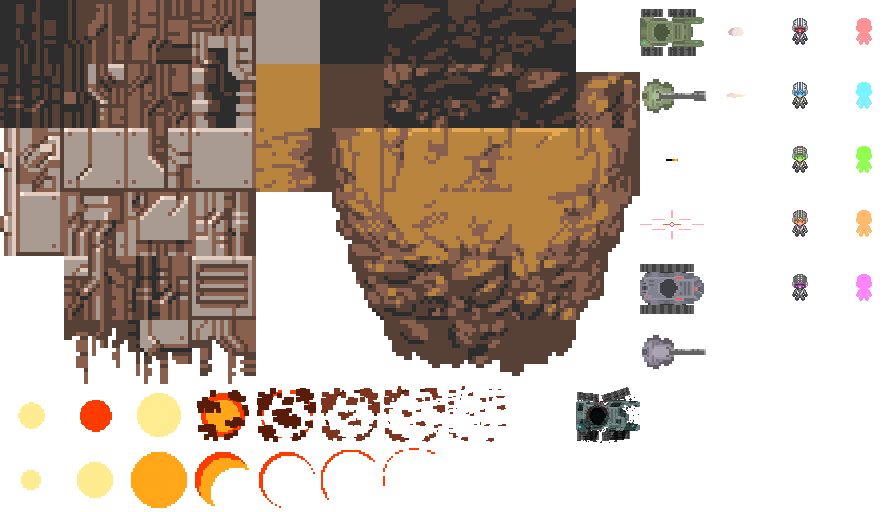
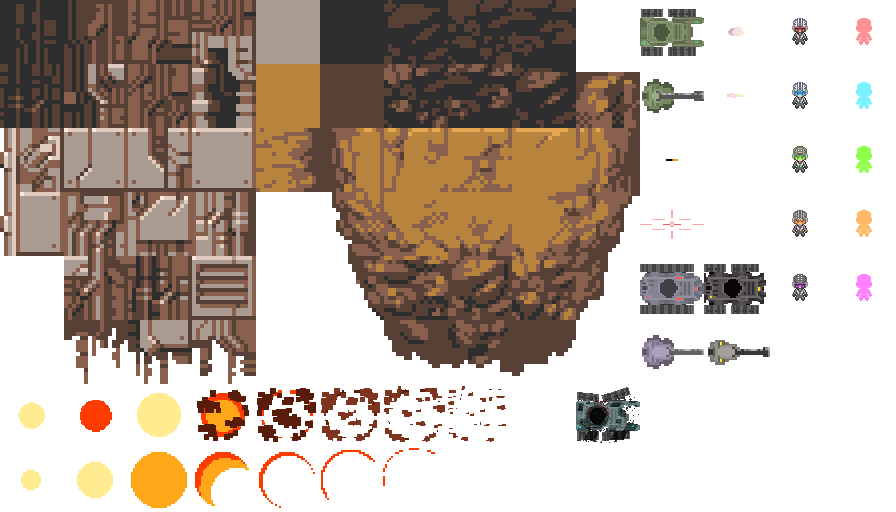
Added tank crewman and tank wreck locations, updated crew movements.

Changed region(s): [[0.7812, 0.5, 0.875, 0.625], [0.7812, 0.6562, 0.875, 0.7188]]

diff --git a/TileBasedPlayer20172018/GameRoot.cs b/TileBasedPlayer20172018/GameRoot.cs
@@ -128,16 +128,16 @@ namespace TileBasedPlayer20172018
         protected override void Initialize()
         {
             Window.Position = new Point(
-                (GraphicsAdapter.DefaultAdapter.CurrentDisplayMode.Width / 2) - 
-                (graphics.PreferredBackBufferWidth / 2), 
-                (GraphicsAdapter.DefaultAdapter.CurrentDisplayMode.Height / 2) - 
+                (GraphicsAdapter.DefaultAdapter.CurrentDisplayMode.Width / 2) -
+                (graphics.PreferredBackBufferWidth / 2),
+                (GraphicsAdapter.DefaultAdapter.CurrentDisplayMode.Height / 2) -
                 (graphics.PreferredBackBufferHeight / 2));
 
             new InputEngine(this);
 
             // Add Camera
             CurrentCamera = new Camera(this, Vector2.Zero,
-                new Vector2((tileMap.GetLength(1) * tileWidth), 
+                new Vector2((tileMap.GetLength(1) * tileWidth),
                             (tileMap.GetLength(0) * tileHeight)));
             Services.AddService(CurrentCamera);
 
@@ -185,15 +185,29 @@ namespace TileBasedPlayer20172018
             const float ANGLE_DIAG_RIGHT = 0.75f; // Minus for top right
 
             #region Create Sentry Tanks
-            Sentry enemyOne = new Sentry(this, new Vector2(958, 197), new List<TileRef>()
+            Vector2[] SentryPositions = new Vector2[]
             {
-                new TileRef(10, 4, 0),
+                new Vector2(958, 197),
+                new Vector2(200, 768),
+                new Vector2(350, 1287),
+                new Vector2(2304, 1820),
+                new Vector2(3590, 1794),
+                new Vector2(3555, 866),
+                new Vector2(2580, 180),
+                new Vector2(3562, 184),
+                new Vector2(2129, 474),
+                new Vector2(1374, 251),
+            };
+
+            Sentry enemyOne = new Sentry(this, SentryPositions[0], new List<TileRef>()
+            {
+                new TileRef(11, 4, 0),
             }, 64, 64, 0f, "Enemy Tank 1",
             Content.Load<SoundEffect>("audio/SentryTankHum"),
             Content.Load<SoundEffect>("audio/SentryTankTracks"),
             -ANGLE_RIGHT);
 
-            Sentry enemyTwo = new Sentry(this, new Vector2(200, 768), new List<TileRef>()
+            Sentry enemyTwo = new Sentry(this, SentryPositions[1], new List<TileRef>()
             {
                 new TileRef(10, 4, 0),
             }, 64, 64, 0f, "Enemy Tank 2",
@@ -201,7 +215,7 @@ namespace TileBasedPlayer20172018
             Content.Load<SoundEffect>("audio/SentryTankTracks"),
             0);
 
-            Sentry enemyThree = new Sentry(this, new Vector2(350, 1287), new List<TileRef>()
+            Sentry enemyThree = new Sentry(this, SentryPositions[2], new List<TileRef>()
             {
                 new TileRef(10, 4, 0),
             }, 64, 64, 0f, "Enemy Tank 3",
@@ -209,7 +223,7 @@ namespace TileBasedPlayer20172018
             Content.Load<SoundEffect>("audio/SentryTankTracks"),
             ANGLE_DIAG_RIGHT);
 
-            Sentry enemyFour = new Sentry(this, new Vector2(2304, 1820), new List<TileRef>()
+            Sentry enemyFour = new Sentry(this, SentryPositions[3], new List<TileRef>()
             {
                 new TileRef(10, 4, 0),
             }, 64, 64, 0f, "Enemy Tank 4",
@@ -217,7 +231,7 @@ namespace TileBasedPlayer20172018
             Content.Load<SoundEffect>("audio/SentryTankTracks"),
             -ANGLE_RIGHT);
 
-            Sentry enemyFive = new Sentry(this, new Vector2(3590, 1794), new List<TileRef>()
+            Sentry enemyFive = new Sentry(this, SentryPositions[4], new List<TileRef>()
             {
                 new TileRef(10, 4, 0),
             }, 64, 64, 0f, "Enemy Tank 5",
@@ -225,7 +239,7 @@ namespace TileBasedPlayer20172018
             Content.Load<SoundEffect>("audio/SentryTankTracks"),
             -ANGLE_RIGHT);
 
-            Sentry enemySix = new Sentry(this, new Vector2(3555, 866), new List<TileRef>()
+            Sentry enemySix = new Sentry(this, SentryPositions[5], new List<TileRef>()
             {
                 new TileRef(10, 4, 0),
             }, 64, 64, 0f, "Enemy Tank 6",
@@ -233,7 +247,7 @@ namespace TileBasedPlayer20172018
             Content.Load<SoundEffect>("audio/SentryTankTracks"),
             ANGLE_DOWN);
 
-            Sentry enemySeven = new Sentry(this, new Vector2(2580, 180), new List<TileRef>()
+            Sentry enemySeven = new Sentry(this, SentryPositions[6], new List<TileRef>()
             {
                 new TileRef(10, 4, 0),
             }, 64, 64, 0f, "Enemy Tank 7",
@@ -241,7 +255,7 @@ namespace TileBasedPlayer20172018
             Content.Load<SoundEffect>("audio/SentryTankTracks"),
             0);
 
-            Sentry enemyEight = new Sentry(this, new Vector2(3562, 184), new List<TileRef>()
+            Sentry enemyEight = new Sentry(this, SentryPositions[7], new List<TileRef>()
             {
                 new TileRef(10, 4, 0),
             }, 64, 64, 0f, "Enemy Tank 8",
@@ -249,7 +263,7 @@ namespace TileBasedPlayer20172018
             Content.Load<SoundEffect>("audio/SentryTankTracks"),
             -ANGLE_RIGHT);
 
-            Sentry enemyNine = new Sentry(this, new Vector2(2129, 474), new List<TileRef>()
+            Sentry enemyNine = new Sentry(this, SentryPositions[8], new List<TileRef>()
             {
                 new TileRef(10, 4, 0),
             }, 64, 64, 0f, "Enemy Tank 9",
@@ -257,7 +271,7 @@ namespace TileBasedPlayer20172018
             Content.Load<SoundEffect>("audio/SentryTankTracks"),
             -ANGLE_RIGHT);
 
-            Sentry enemyTen = new Sentry(this, new Vector2(1374, 251), new List<TileRef>()
+            Sentry enemyTen = new Sentry(this, SentryPositions[9], new List<TileRef>()
             {
                 new TileRef(10, 4, 0),
             }, 64, 64, 0f, "Enemy Tank 10",
@@ -310,7 +324,7 @@ namespace TileBasedPlayer20172018
 
             SentryTurret enemyTurretOne = new SentryTurret(this, enemyOne.PixelPosition, new List<TileRef>()
             {
-                new TileRef(10, 5, 0),
+                new TileRef(11, 5, 0),
             }, 64, 64, 0f, "Enemy Tank 1", -ANGLE_RIGHT, Content.Load<SoundEffect>("audio/SentryTurretTurn"),
             Content.Load<SoundEffect>("audio/TankExplosion"));
 
@@ -533,38 +547,65 @@ namespace TileBasedPlayer20172018
             Services.AddService(sentryProjectiles);
             #endregion
 
-            #region Add PowerUps
+            #region Add Tank Crew
+            Vector2[] CrewmanPositions = new Vector2[]
+            {
+                new Vector2(165, 1827),
+                new Vector2(194, 863),
+                new Vector2(2707, 1758),
+                new Vector2(3612, 244),
+                new Vector2(1306, 152)
+            };
+
+            #region Tank Wreck Sprites
+            TankWreckSprite[] WreckSprites = new TankWreckSprite[CrewmanPositions.Length];
+            for (int i = 0; i < CrewmanPositions.Length; i++)
+            {
+                WreckSprites[i] = new TankWreckSprite(this, CrewmanPositions[i] + new Vector2(10, 6),
+                new List<TileRef>()
+                {
+                    new TileRef(9,6,0)
+                }, 64, 64, 0f);
+            }
+
+            WreckSprites[0].angleOfRotation = -ANGLE_DIAG_RIGHT;
+            WreckSprites[1].angleOfRotation = -ANGLE_DIAG_RIGHT;
+            WreckSprites[2].angleOfRotation = ANGLE_RIGHT;
+            WreckSprites[3].angleOfRotation = ANGLE_RIGHT;
+            WreckSprites[4].angleOfRotation = ANGLE_DIAG_RIGHT;
+            #endregion
+
             //PowerUp Heal = new PowerUp(this, new Vector2(500, 192), new List<TileRef>()
             //{
             //    new TileRef(12,2,0),
             //}, 64, 64, 0f, 1, PowerUp.PowerUpType.Heal, 50, 1,
             //Content.Load<SoundEffect>(@"audio/Rescue3"));
 
-            PowerUp Speed = new PowerUp(this, new Vector2(500, 192), new List<TileRef>()
+            PowerUp Speed = new PowerUp(this, CrewmanPositions[0], new List<TileRef>()
             {
                 new TileRef(12,3,0)               
-            }, 64, 64, 0f, 5, PowerUp.PowerUpType.SpeedBoost, 0, 1.2f,
+            }, 64, 64, 0f, 5, PowerUp.PowerUpType.SpeedBoost, 0, 1.1f,
             Content.Load<SoundEffect>(@"audio/Rescue1"));
 
-            PowerUp Regen = new PowerUp(this, new Vector2(600, 192), new List<TileRef>()
+            PowerUp Regen = new PowerUp(this, CrewmanPositions[1], new List<TileRef>()
             {
                 new TileRef(12,2,0),
             }, 64, 64, 0f, 1, PowerUp.PowerUpType.Regen, 1, 1,
             Content.Load<SoundEffect>(@"audio/Rescue2"));
 
-            PowerUp DefenseBoost = new PowerUp(this, new Vector2(700, 192), new List<TileRef>()
+            PowerUp DefenseBoost = new PowerUp(this, CrewmanPositions[2], new List<TileRef>()
             {
                 new TileRef(12,1,0),
             }, 64, 64, 0f, 60, PowerUp.PowerUpType.DefenseBoost, 0, 2,
             Content.Load<SoundEffect>(@"audio/Rescue3"));
 
-            PowerUp ExtraDamage = new PowerUp(this, new Vector2(800, 192), new List<TileRef>()
+            PowerUp ExtraDamage = new PowerUp(this, CrewmanPositions[3], new List<TileRef>()
             {
                 new TileRef(12,0,0),
             }, 64, 64, 0f, 60, PowerUp.PowerUpType.ExtraDamage, 0, 2,
             Content.Load<SoundEffect>(@"audio/Rescue4"));
 
-            PowerUp Camouflage = new PowerUp(this, new Vector2(900, 192), new List<TileRef>()
+            PowerUp Camouflage = new PowerUp(this, CrewmanPositions[4], new List<TileRef>()
             {
                 new TileRef(12,4,0),
             }, 64, 64, 0f, 5, PowerUp.PowerUpType.Camouflage, 0, 0,

diff --git a/TileBasedPlayer20172018/Items/Power-Ups/PowerUp.cs b/TileBasedPlayer20172018/Items/Power-Ups/PowerUp.cs
@@ -73,6 +73,9 @@ namespace PowerUps
         public float MaxLifeTime;
         public float RegenTimer;
         private bool attachToHUD = false;
+        private float distance;
+        private const int RUN_RADIUS = 100;
+        private const float RUN_SPEED = 0.01f;
 
         private SoundEffect pickupSnd;
         private SoundEffectInstance pickupSndInst;
@@ -100,6 +103,9 @@ namespace PowerUps
             this.Factor = multiplier;
             this.Amount = amount;
             this.State = PowerUpStatus.Deactivated;
+            BoundingRectangle = new Rectangle(
+                PixelPosition.ToPoint(), 
+                new Point(FrameWidth / 8, FrameHeight / 8));
 
             #region Get Default Values
             TilePlayer player = (TilePlayer)Game.Services.GetService(typeof(TilePlayer));
@@ -295,6 +301,14 @@ namespace PowerUps
                             Deactivate(player, playerTurret, sentryTurrets);
                         }
                     }
+
+                    distance = Math.Abs(Vector2.Distance(this.CentrePos, player.CentrePos));
+
+                    if (distance <= RUN_RADIUS)
+                        PixelPosition = Vector2.Lerp(
+                            this.PixelPosition, 
+                            player.PixelPosition, 
+                            RUN_SPEED);
                 }
 
                 if (attachToHUD)

diff --git a/TileBasedPlayer20172018/Sprites/TankWreckSprite.cs b/TileBasedPlayer20172018/Sprites/TankWreckSprite.cs
@@ -1,0 +1,25 @@
+using System;
+using System.Collections.Generic;
+using System.Linq;
+using System.Text;
+using System.Threading.Tasks;
+using Microsoft.Xna.Framework;
+using Tiling;
+
+namespace AnimatedSprite
+{
+    class TankWreckSprite : RotatingSprite
+    {
+        public TankWreckSprite(Game game, Vector2 userPosition, List<TileRef> sheetRefs, 
+            int frameWidth, int frameHeight, float layerDepth) 
+            : base(game, userPosition, sheetRefs, frameWidth, frameHeight, layerDepth)
+        {
+            DrawOrder = 29;
+        }
+
+        public override void Draw(GameTime gameTime)
+        {
+            base.Draw(gameTime);
+        }
+    }
+}

diff --git a/TileBasedPlayer20172018/Entities/Player/TilePlayerTurret.cs b/TileBasedPlayer20172018/Entities/Player/TilePlayerTurret.cs
@@ -21,7 +21,7 @@ namespace Tiler
         #region Properties
         float volumeVelocity = 0;
         private float turnSpeed = 0.04f;
-        private const float WIDTH_IN = 11f; // Width in from the left for the sprites origin
+        private const float WIDTH_IN = 15f; // Width in from the left for the sprites origin
         private float angleOfRotationPrev;
         public Projectile Bullet;
         public Vector2 Direction;

diff --git a/TileBasedPlayer20172018/Engines/AI/WayPoint.cs b/TileBasedPlayer20172018/Engines/AI/WayPoint.cs
@@ -12,7 +12,7 @@ namespace Pathfinding_Demo.Engine.AI
     class WayPoint
     {
         public int WayPointIndex;
-        //public bool ReachedDestination;
+        public bool ReachedDestination; // This is NOT updated !
         public static int freezeRadius = 200; // Stay outside this radius from target
 
         public void MoveTo(GameTime gameTime, Sentry tank, List<Vector2> DestinationWaypoint)

diff --git a/TileBasedPlayer20172018/Entities/Player/TilePlayer.cs b/TileBasedPlayer20172018/Entities/Player/TilePlayer.cs
@@ -124,8 +124,6 @@ namespace Tiler
                 HeadLights.Position = TankLightPos;
                 HeadLights.Rotation = this.angleOfRotation;
 
-                PixelPosition = this.PixelPosition;
-
                 Movement();
 
                 PlaySounds();
